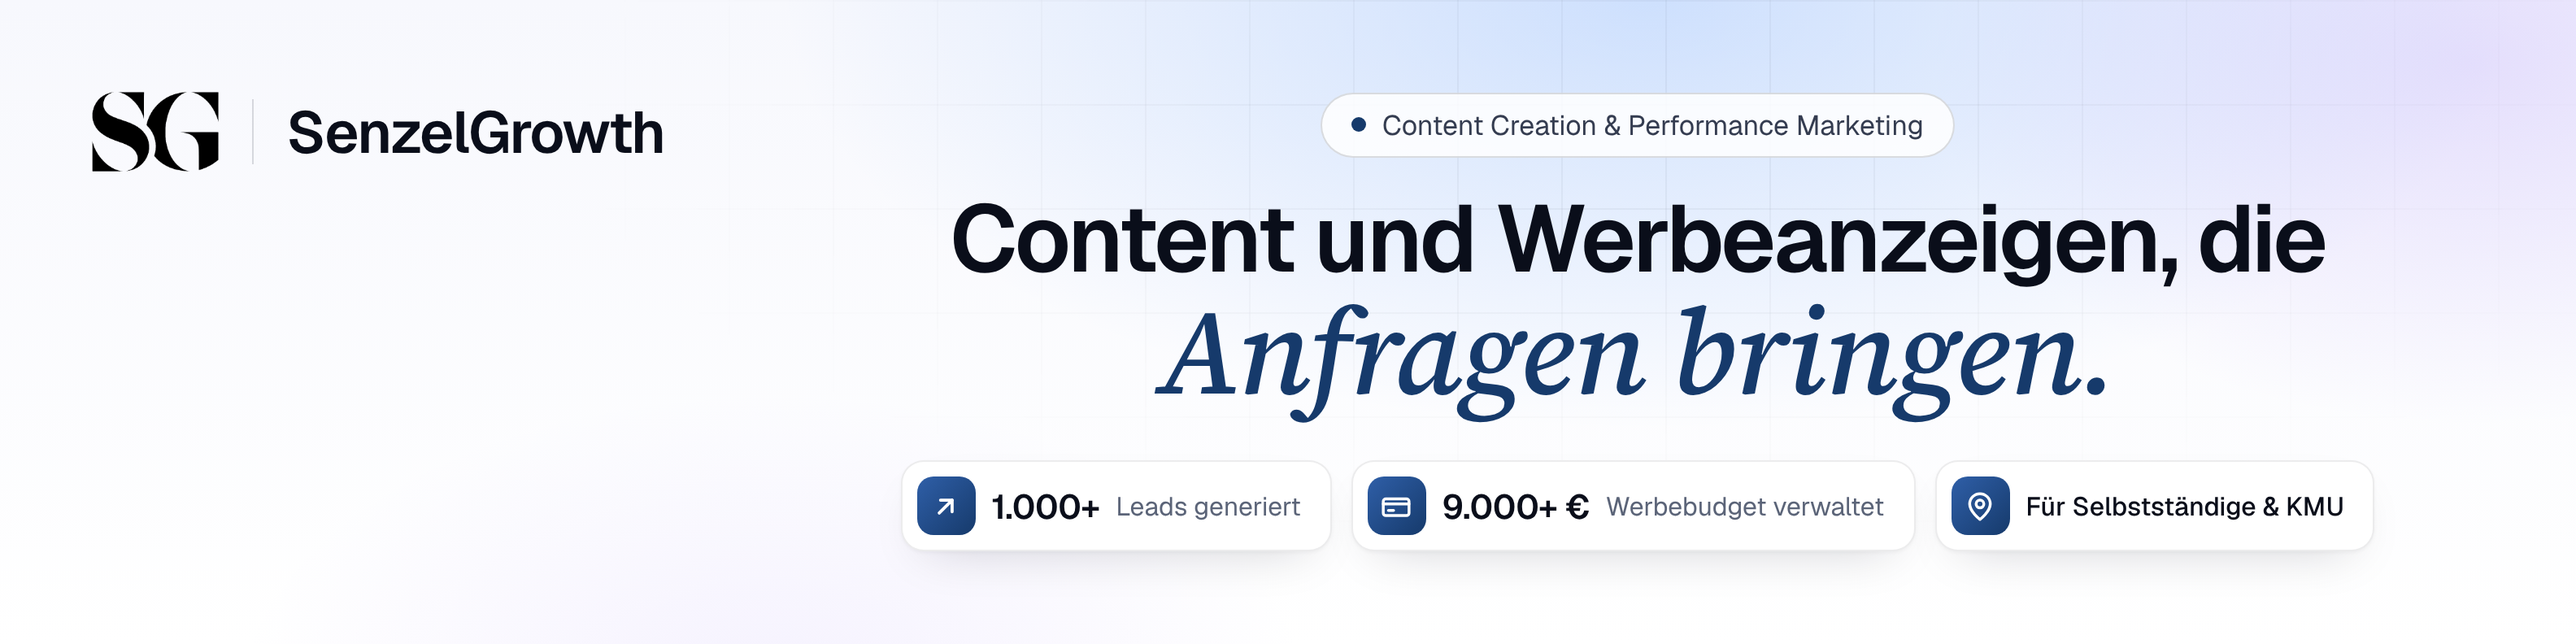
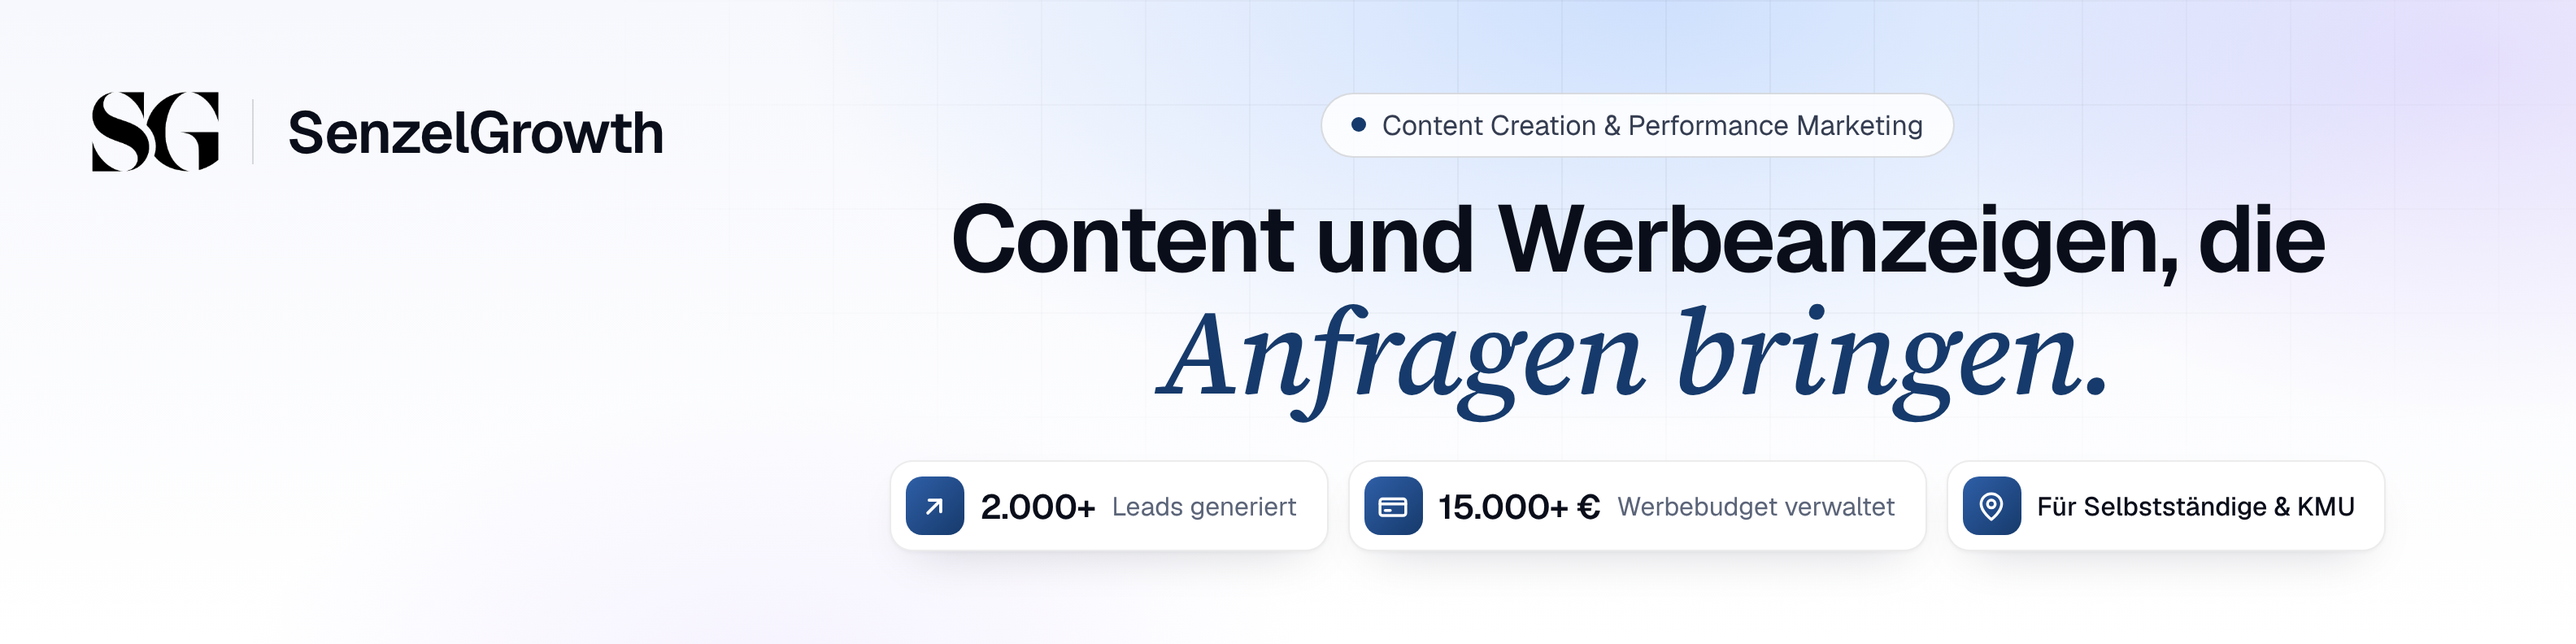
Update ad spend to 15.000+ €, label Google Ads chart, swap Meta campaign screenshot
- PROOF: 15.000+ € Werbebudget verwaltet (2.000+ Leads unchanged)
- Portfolio: mark campaign chart as Google Ads, replace 'Meta-Kampagnen im
  Vergleich' with a pixelated overview of three Meta campaigns (EXIF stripped)
- Light LinkedIn banner: same figures as the website

Claude-Session: https://claude.ai/code/session_01Eytop5yPzptKHp29UiidvV

Changed region(s): [[0.5312, 0.7273, 0.9062, 0.8485], [0.3438, 0.7273, 0.5, 0.8485]]

diff --git a/branding/linkedin-banner-light.html b/branding/linkedin-banner-light.html
@@ -67,11 +67,11 @@
     <div class="proof">
       <div class="card">
         <span class="ic"><svg viewBox="0 0 24 24" fill="none" stroke="currentColor" stroke-width="2.4" stroke-linecap="round" stroke-linejoin="round"><path d="M7 17 17 7"/><path d="M8 7h9v9"/></svg></span>
-        <b>1.000+</b><span>Leads generiert</span>
+        <b>2.000+</b><span>Leads generiert</span>
       </div>
       <div class="card">
         <span class="ic"><svg viewBox="0 0 24 24" fill="none" stroke="currentColor" stroke-width="2.2" stroke-linecap="round" stroke-linejoin="round"><rect x="2" y="6" width="20" height="13" rx="2"/><path d="M2 10h20"/><path d="M6 15h4"/></svg></span>
-        <b>9.000+&nbsp;€</b><span>Werbebudget verwaltet</span>
+        <b>15.000+&nbsp;€</b><span>Werbebudget verwaltet</span>
       </div>
       <div class="card">
         <span class="ic"><svg viewBox="0 0 24 24" fill="none" stroke="currentColor" stroke-width="2.2" stroke-linecap="round" stroke-linejoin="round"><path d="M20 10c0 6-8 12-8 12s-8-6-8-12a8 8 0 0 1 16 0Z"/><circle cx="12" cy="10" r="3"/></svg></span>

diff --git a/src/components/sections/Portfolio.tsx b/src/components/sections/Portfolio.tsx
@@ -41,8 +41,8 @@ const PROJECTS: Project[] = [
 const MORE = [
   { image: "/portfolio/instagram-wachstum.jpg", caption: "Instagram: +105 % Aufrufe in 28 Tagen", client: "Content" },
   { image: "/portfolio/video-auswertung.jpg", caption: "Auswertung eines Kurzvideos", client: "Content" },
-  { image: "/portfolio/kampagnen-verlauf.jpg", caption: "Verlauf einer Werbekampagne", client: "Kampagnen" },
-  { image: "/portfolio/meta-kampagnen.jpg", caption: "Meta-Kampagnen im Vergleich", client: "Kampagnen" },
+  { image: "/portfolio/kampagnen-verlauf.jpg", caption: "Verlauf einer Google-Ads-Kampagne", client: "Kampagnen · Google Ads" },
+  { image: "/portfolio/meta-kampagnen-uebersicht.jpg", caption: "Drei Meta-Kampagnen im Überblick", client: "Kampagnen · Meta Ads" },
   { image: "/portfolio/google-ads-hinweis.jpg", caption: "Hinweis von Google zu einer Kampagne", client: "Kampagnen" },
   { image: "/results/ki-chat-automatisierung.png", caption: "Chatbot für Kundenanfragen", client: "Extra" },
 ];

diff --git a/src/lib/content.ts b/src/lib/content.ts
@@ -2,10 +2,10 @@ export const CALENDLY_URL = "https://calendly.com/senzelgrowth/30min";
 export const CONTACT_EMAIL = "senzelgrowth@gmail.com";
 
 // Overall figures across all work (owner's figures, not tied to a single client):
-// 2.000+ leads generated in total, 9.049,63 € managed ad spend.
+// 2.000+ leads generated in total, 15.000+ € managed ad spend across all accounts.
 export const PROOF = [
   { value: "2.000+", label: "Leads insgesamt generiert" },
-  { value: "9.000+ €", label: "Werbebudget verwaltet" },
+  { value: "15.000+ €", label: "Werbebudget verwaltet" },
 ];
 
 export const NAV_LINKS = [
